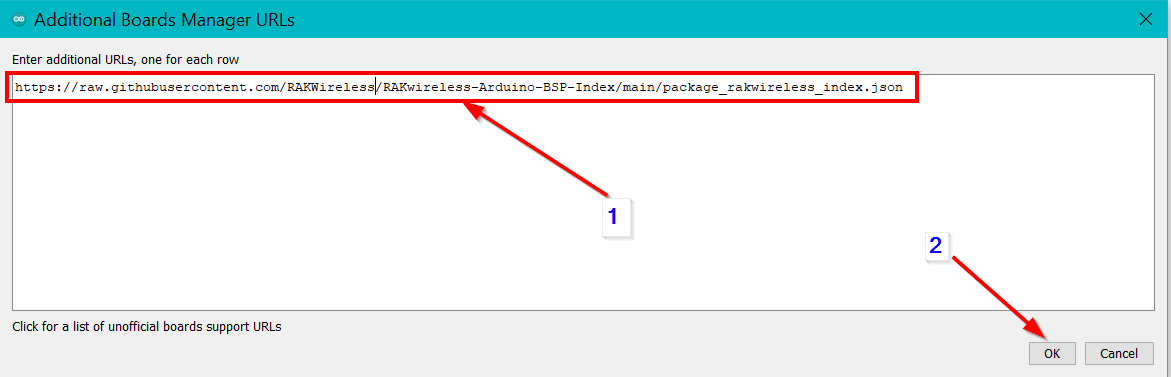
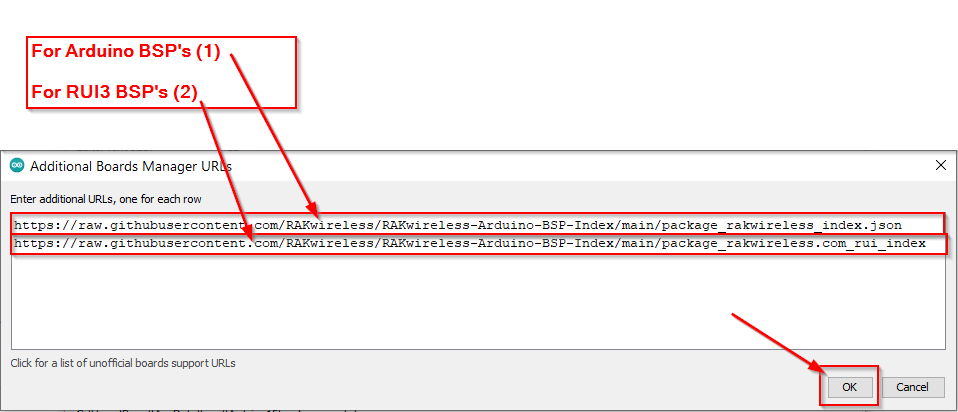
Update README.md to cover RUI3 BSP installation.

Changed region(s): [[0.0, 0.0, 1.0, 1.0], [0.7568, 0.7586, 0.7871, 0.7878]]

diff --git a/README.md b/README.md
@@ -1,21 +1,50 @@
 # RAKwireless BSP Support For The Arduino Board Manager
-| ![RAKwireless](./assets/RAK-Whirls.png) | ![RAKstar](./assets/rakstar.jpg) | ![WisBlock](./assets/WisBlock.png) |
-| :-: | :-: | :-: |
+| <center><img src="./assets/RAK-Whirls.png" alt="RAKwireless" width=100></center> | <center><img src="./assets/rui3.png" alt="RUI3" width=100></center> | <center><img src="./assets/rakstar.jpg" alt="RAKstar" width=100></center> | <center><img src="./assets/WisBlock.png" alt="WisBlock" width=100></center> |
+| :-: | :-: | :-: | :-: |
 
 ----
 
-_**This repo contains the custom `package_rakwireless_index.json` files that can be used to add new
-third party boards to the Arduino v1.6.4+ IDE.**_
+_**This repo contains the custom installation packages required by the Arduino IDE (version 1.6.4 or newer) to install the WisBlock Arduino BSP's and the RAKwireless RUI3 BSP's.**_
+
+There are two installation packages available:
+- `package_rakwireless_index.json` is for WisBlock Core module support in Arduino IDE v1.6.4 or newer.
+- `package_rakwireless.com_rui_index.json` is for RUI3 support in Arduino IDE v1.6.4 or newer.
 
 ----
 
-## Supported WisBlock Core modules
+The difference between the two packages:
+| Arduino BSP | 	RUI3 | 
+| -- | -- | 
+| Open Source | 	API is prorietary RAK code and not published | 
+| Uses SX126x-Arduino library MAC stack V1.0.2 | 	Uses RAK MAC stack V1.0.3 | 
+| Class A and C | 	Class A, B and C | 
+| Has FreeRTOS (RAK4631/RAK11200) | 	Barebone SDK code | 
+| lowest power consumption ~30uA (RAK4631) | 	lowest power consumption ~6uA | 
+| Adopted from available open source BSP's | 	Developed by RAK R&D team | 
+| Supports RAK4630, RAK4631, RAK11310 and RAK11200 | Supports RAK4630, RAK4631, RAK3172, RAK3172 EVB, RAK3272 Breakout Board, RAK3172-SiP, RAK3272-SiP Breakout Board |
+| Uses open source bootloader | Uses RAK proprietary bootloader |
+
+----
+
+## Supported WisBlock Core modules for the Arduino BSP's
 
 This repository contains support for the following RAKwireless Arduino BSP's for the following [WisBlock Core modules](https://docs.rakwireless.com/Product-Categories/WisBlock/#wisblock-core).
 
-- **[RAK4631](https://docs.rakwireless.com/Product-Categories/WisBlock/RAK4631/Overview/#product-description)**    
-- **[RAK11200](https://docs.rakwireless.com/Product-Categories/WisBlock/RAK11200/Overview/#product-description)**
-- **[RAK11310](https://docs.rakwireless.com/Product-Categories/WisBlock/RAK11310/Overview/#product-description)**
+- **[RAK4631](https://docs.rakwireless.com/Product-Categories/WisBlock/RAK4631/Overview/)**    
+- **[RAK11200](https://docs.rakwireless.com/Product-Categories/WisBlock/RAK11200/Overview/)**
+- **[RAK11310](https://docs.rakwireless.com/Product-Categories/WisBlock/RAK11310/Overview/)**
+
+## Supported RUI3 modules
+
+This repository contains RUI3 support for the following RAKwireless modules.
+
+- **[RAK4630](https://docs.rakwireless.com/Product-Categories/WisDuo/RAK4630-Module/Overview/)**    
+- **[RAK4631-R](https://docs.rakwireless.com/Product-Categories/WisBlock/RAK4631-R/Overview/)**    
+- **[RAK3172](https://docs.rakwireless.com/Product-Categories/WisDuo/RAK3172-Module/Overview/)**
+- **[RAK3172-SiP](https://docs.rakwireless.com/Product-Categories/WisDuo/RAK3172-SiP/Overview/)**
+- **[RAK3272S Breakout Board](https://docs.rakwireless.com/Product-Categories/WisDuo/RAK3272S-Breakout-Board/Overview/)**
+- **[RAK3272-SiP Breakout Board](https://docs.rakwireless.com/Product-Categories/WisDuo/RAK3272-SiP-Breakout-Board/Overview/)**
+- **[RAK3172 Evaluation Board](https://docs.rakwireless.com/Product-Categories/WisDuo/RAK3172-Evaluation-Board/Overview/)**
 
 ----
 
@@ -34,14 +63,12 @@ In the **Preferences** window, look for **Additional Boards Manager URLs** and c
 ----
 ----
 
-# IMPORTANT !!!!!  
-If you have already installed the RAKwireless nRF Modules BSP, please follow [these steps first](#uninstall-old-bsp-package). Otherwise you will have the RAK nRF52 boards listed twice!  
-
-#### Continue
----- 
-----
-
+### If installing Arduino BSP's for WisBlock
 Copy `https://raw.githubusercontent.com/RAKwireless/RAKwireless-Arduino-BSP-Index/main/package_rakwireless_index.json` and paste it into the new window.      
+- If there is already an URL from another manufacturer in that field, paste the above URL into a new line.    
+
+### If installing RUI3 BSP's
+Copy `https://raw.githubusercontent.com/RAKwireless/RAKwireless-Arduino-BSP-Index/main/package_rakwireless.com_rui_index` and paste it into the new window.      
 - If there is already an URL from another manufacturer in that field, paste the above URL into a new line.    
 
 ![Paste](./assets/03-add-bsp-url.png)  
@@ -55,12 +82,12 @@ Next open the **Boards Manager** in the menu **Tools**
 
 ----
 
-Write "RAK" (without quotes) in the search bar. The RAKwireless WisBlock Core modules will be shown in the window.  
+Write "RAK" (without quotes) in the search bar. The RAKwireless WisBlock Core modules and/or the RAKwireless RUI3 supported modules will be shown in the window.  
   
 ![Preferences](./assets/05-add-bsp.png) 
 
 You can see which BSP is required for which WisBlock Core module.     
-Select the BSP you need for your WisBlock Core module and click on **Install**.    
+Select the BSP you need for your WisBlock Core module or RUI3 supported module and click on **Install**.    
 
 _**Depending on your connection speed, the installation can take some time. Please be patient.**_
 
@@ -70,10 +97,12 @@ _**Depending on your connection speed, the installation can take some time. Plea
 
 **_For support and questions about RAKwireless products please visit our [forum](https://forum.rakwireless.com/)    
 For examples and quick start tutorial please visit our [Github Repo](https://github.com/RAKWireless/Wisblock)    
+For documentation about RUI3 API visit [Documentation Center - RUI3](https://docs.rakwireless.com/RUI3/)    
 For additional information about RAK products please visit our [Documentation Center](https://docs.rakwireless.com/Product-Categories/WisBlock/)    
 To buy WisBlock modules please visit our [online store](https://store.rakwireless.com/pages/wisblock)_**
 
 
+<!--
 # Uninstall Old BSP Package
 If you have installed the RAKwireless nRF Modules BSP before, you need to uninstall them first, otherwise you will have the boards listed twice!  
   
@@ -109,3 +138,4 @@ and remove the line.
 ![Additional Boards Manager URLs](./assets/07-uninstall-old-bsp.png)  
 
 Now you can [continue](#continue) with the new BSP installation.
+-->
